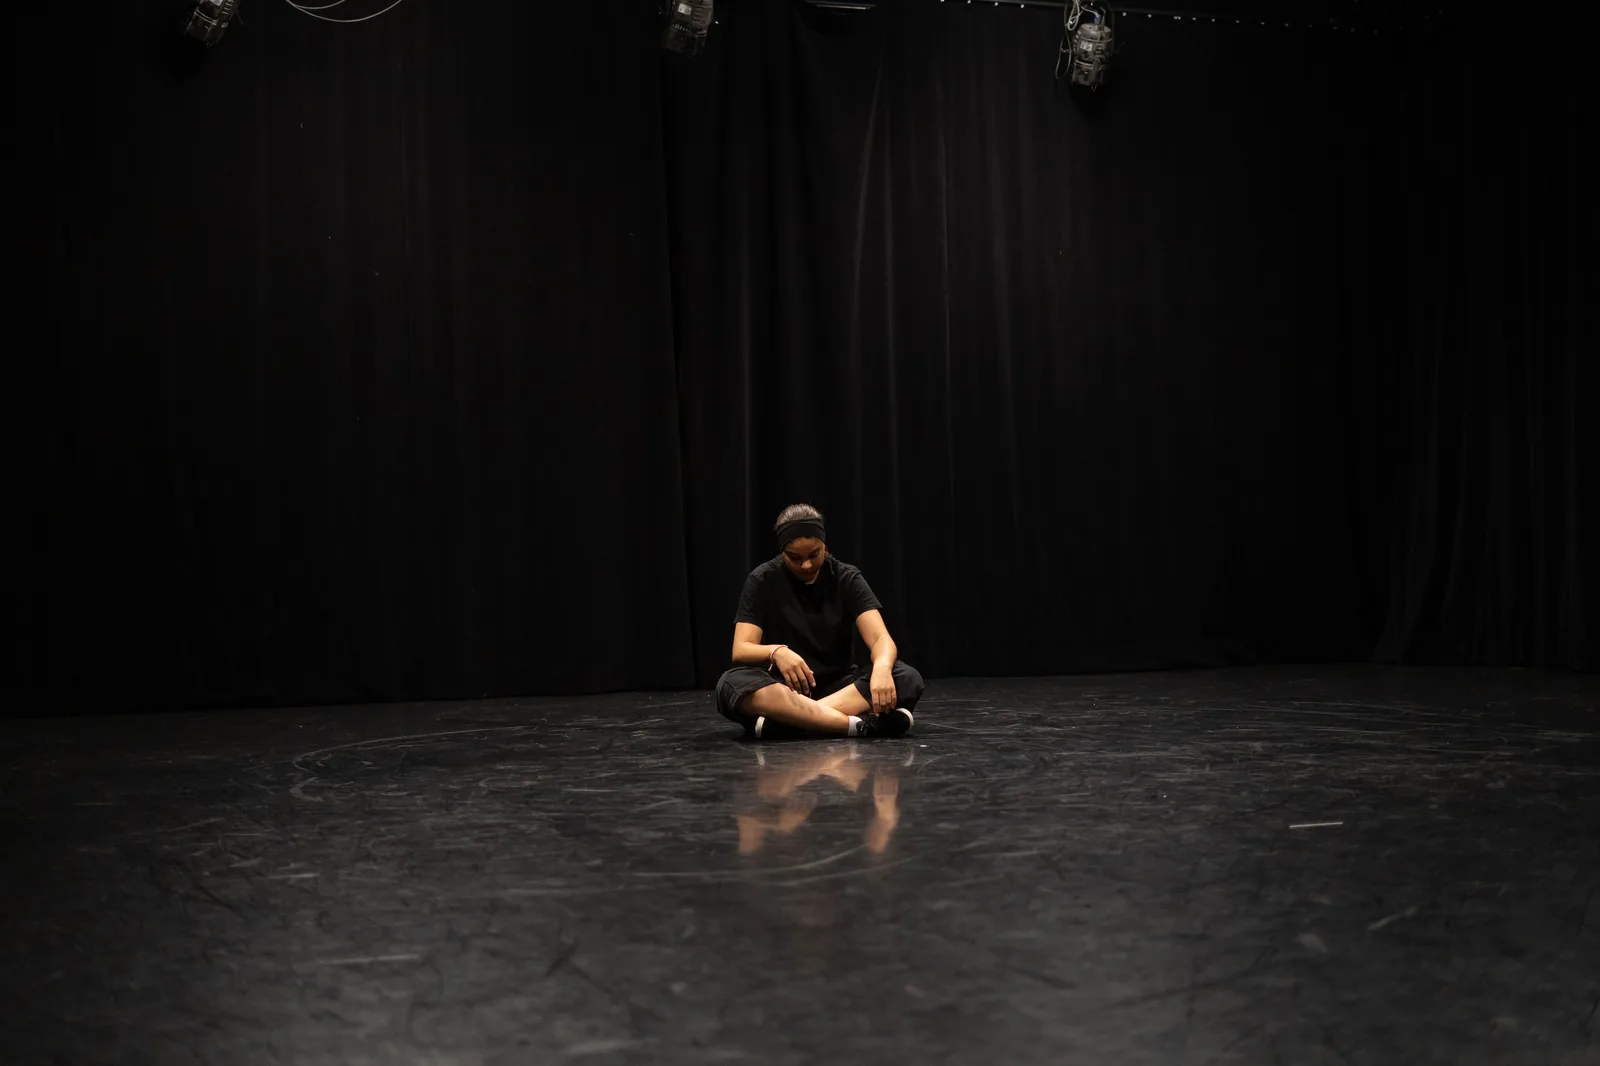
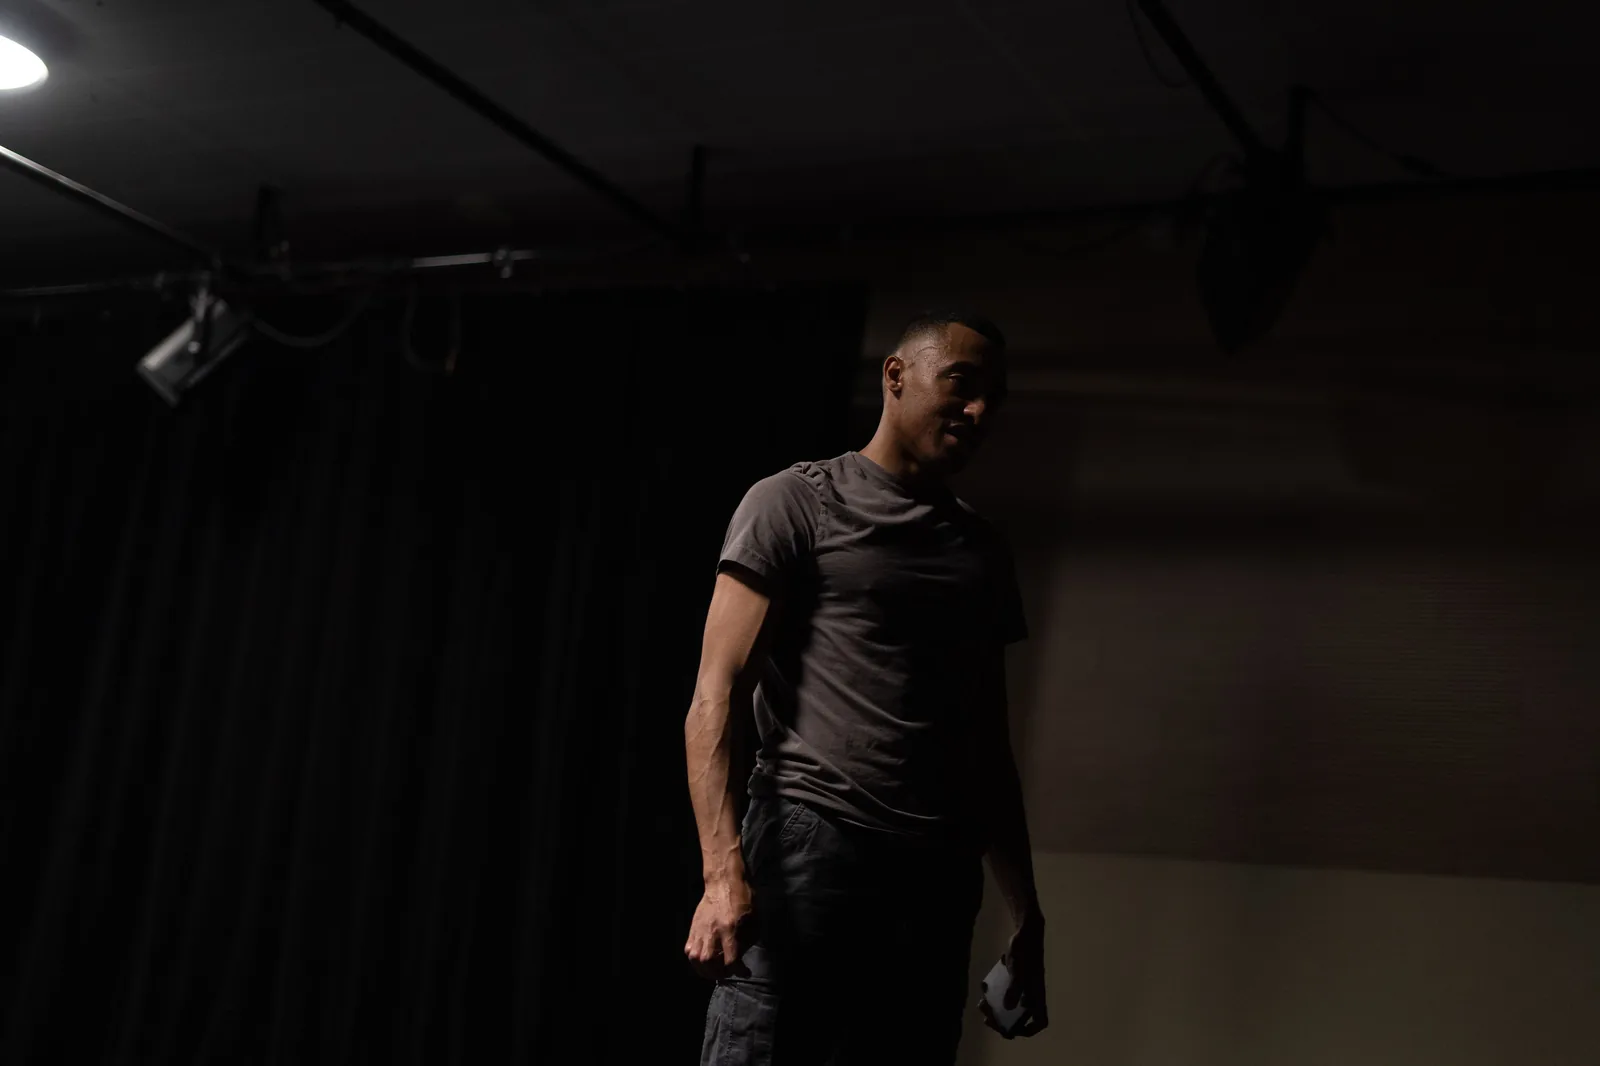
WINDOWS g01: replace THT-1 with THT-199 (distinct Jay wide)
Hero THT-104, g02/g03/tile unchanged; 3-column gallery layout preserved.

diff --git a/scripts/optimize_windows_from_onedrive.py b/scripts/optimize_windows_from_onedrive.py
@@ -18,7 +18,7 @@ MAX_WIDTH = 1600
 FILES = [
     ("hero", "THT-104.jpg"),
     ("og-windows", "THT-104.jpg"),
-    ("g01", "THT-1.jpg"),
+    ("g01", "THT-199.jpg"),
     ("g02", "THT-232.jpg"),
     ("g03", "THT-263.jpg"),
 ]
